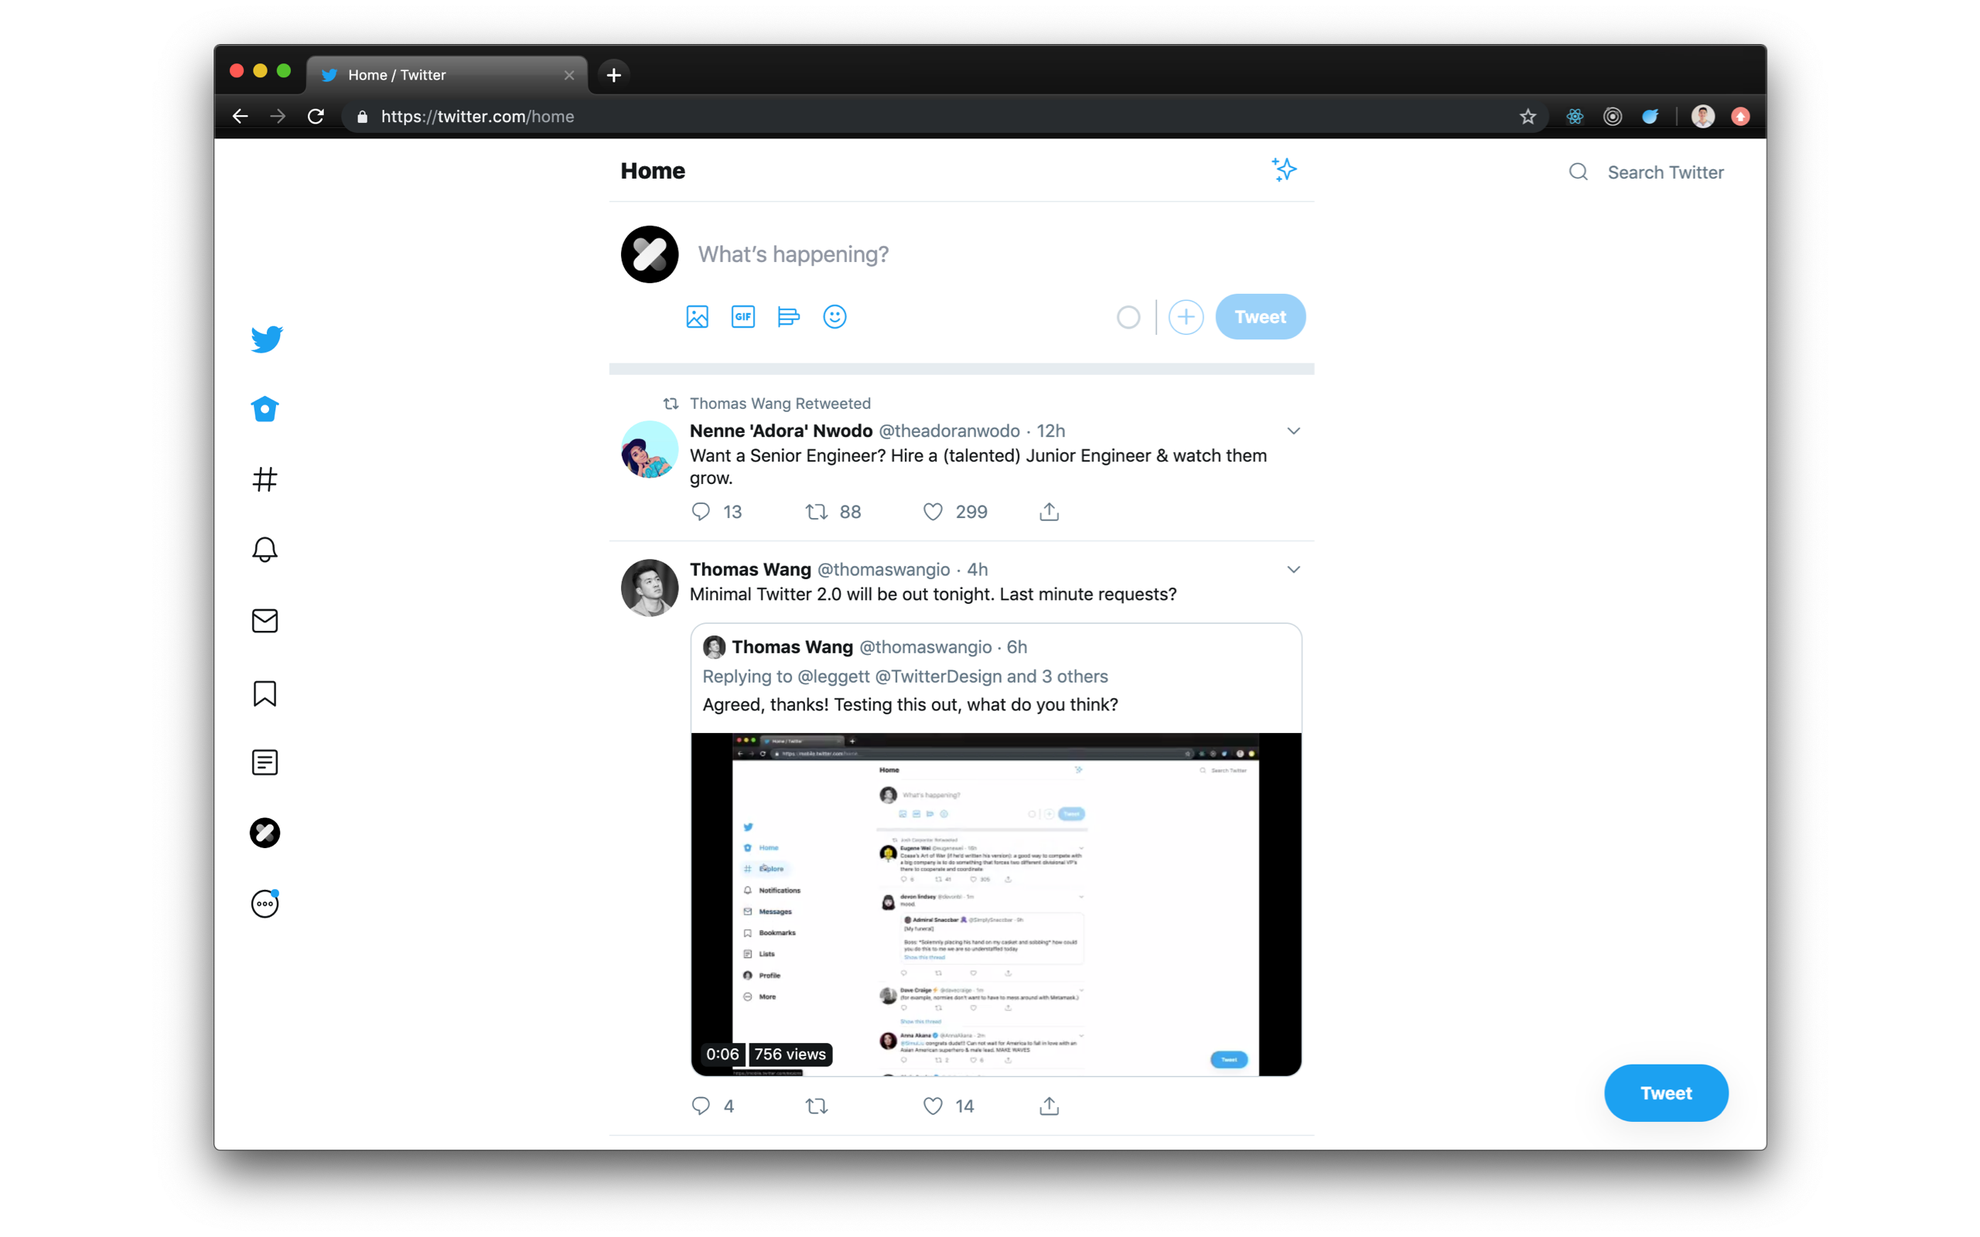
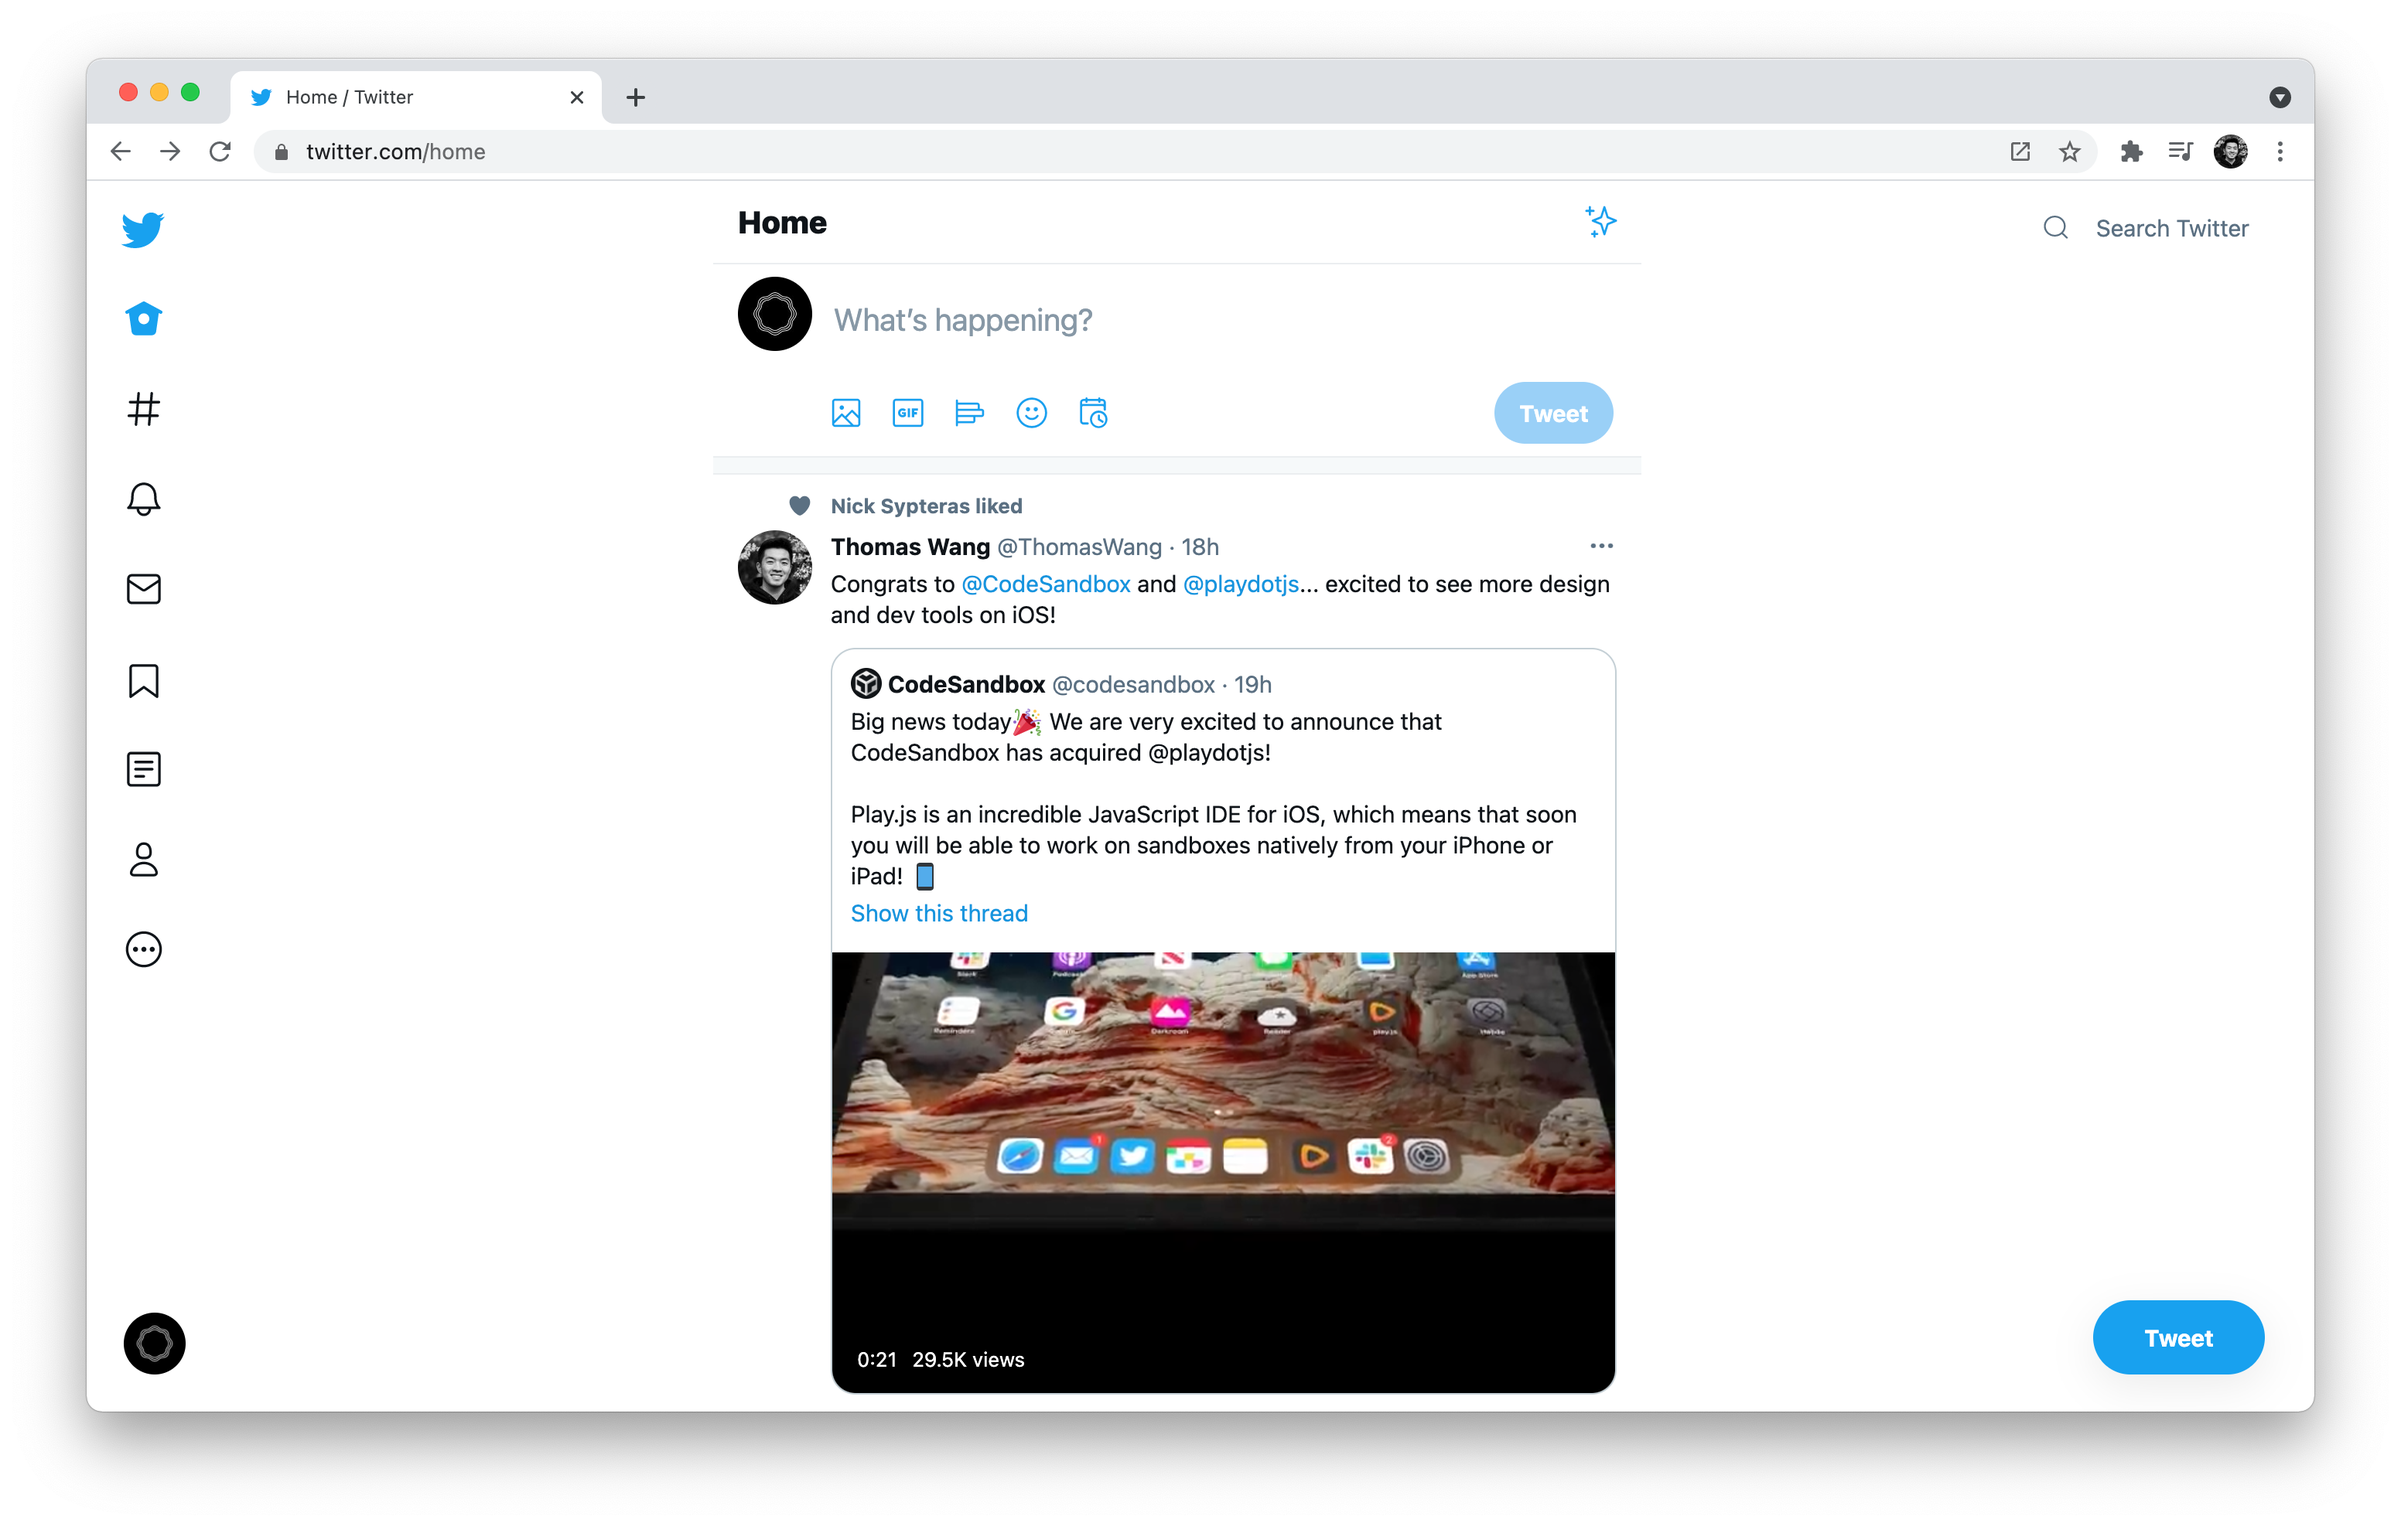
2.80

Changed region(s): [[0.0, 0.0312, 1.0, 0.9688], [0.2812, 0.1875, 0.4688, 0.25]]

diff --git a/chrome/minimal-twitter.css b/chrome/minimal-twitter.css
@@ -1,21 +1,3 @@
-header[role="banner"] {
-  align-items: start !important;
-  max-width: 100px !important;
-}
-
-header[role="banner"] > div > div > div {
-  justify-content: center;
-  padding-top: 0;
-}
-
-header[role="banner"] > div > div > div > div {
-  margin-top: 0 !important;
-}
-
-header[role="banner"] > div > div > div > div:nth-child(1) {
-  padding-top: 0 !important;
-}
-
 main[role="main"] {
   align-items: center !important;
 }
@@ -54,16 +36,22 @@ a[data-testid="SideNav_NewTweet_Button"] {
   }
 }
 
+header[role="banner"] {
+  align-items: start !important;
+  max-width: 100px !important;
+}
+
 header[role="banner"] > div > div > div {
-  justify-content: center;
+  justify-content: space-between;
+  padding-top: 6px;
 }
 
 header[role="banner"] > div > div > div > div {
-  margin-top: auto;
+  margin-top: 0 !important;
 }
 
 header[role="banner"] > div > div > div > div:nth-child(1) {
-  padding-top: 59px;
+  padding-top: 0 !important;
 }
 
 header[role="banner"]
@@ -154,11 +142,18 @@ form[aria-label="Search Twitter"][role="search"] > div:nth-child(1) > div {
   background-color: transparent !important;
 }
 
+div[data-testid="sidebarColumn"] input[placeholder="Search Twitter"] {
+  width: 150px !important;
+}
+
+div[data-testid="sidebarColumn"] input[placeholder="Search Twitter"]:focus {
+  width: auto !important;
+}
+
 input[placeholder="Search Twitter"] {
   padding-left: 34px !important;
   margin-left: -24px !important;
   z-index: 1 !important;
-  width: 150px !important;
   transition: 0.5s cubic-bezier(0.2, 0.8, 0.2, 1);
 }
 
@@ -169,7 +164,6 @@ input[placeholder="Search Twitter"]::placeholder {
 input[placeholder="Search Twitter"]:focus {
   padding-left: 10px !important;
   margin-left: 0 !important;
-  width: 300px !important;
 }
 
 @media all and (max-width: 1265px) {

diff --git a/firefox/minimal-twitter.css b/firefox/minimal-twitter.css
@@ -1,21 +1,3 @@
-header[role="banner"] {
-  align-items: start !important;
-  max-width: 100px !important;
-}
-
-header[role="banner"] > div > div > div {
-  justify-content: center;
-  padding-top: 0;
-}
-
-header[role="banner"] > div > div > div > div {
-  margin-top: 0 !important;
-}
-
-header[role="banner"] > div > div > div > div:nth-child(1) {
-  padding-top: 0 !important;
-}
-
 main[role="main"] {
   align-items: center !important;
 }
@@ -54,16 +36,22 @@ a[data-testid="SideNav_NewTweet_Button"] {
   }
 }
 
+header[role="banner"] {
+  align-items: start !important;
+  max-width: 100px !important;
+}
+
 header[role="banner"] > div > div > div {
-  justify-content: center;
+  justify-content: space-between;
+  padding-top: 6px;
 }
 
 header[role="banner"] > div > div > div > div {
-  margin-top: auto;
+  margin-top: 0 !important;
 }
 
 header[role="banner"] > div > div > div > div:nth-child(1) {
-  padding-top: 59px;
+  padding-top: 0 !important;
 }
 
 header[role="banner"]
@@ -160,11 +148,18 @@ form[aria-label="Search Twitter"][role="search"] > div:nth-child(1) > div {
   background-color: transparent !important;
 }
 
+div[data-testid="sidebarColumn"] input[placeholder="Search Twitter"] {
+  width: 150px !important;
+}
+
+div[data-testid="sidebarColumn"] input[placeholder="Search Twitter"]:focus {
+  width: auto !important;
+}
+
 input[placeholder="Search Twitter"] {
   padding-left: 34px !important;
   margin-left: -24px !important;
   z-index: 1 !important;
-  width: 150px !important;
   transition: 0.5s cubic-bezier(0.2, 0.8, 0.2, 1);
 }
 
@@ -175,7 +170,6 @@ input[placeholder="Search Twitter"]::placeholder {
 input[placeholder="Search Twitter"]:focus {
   padding-left: 10px !important;
   margin-left: 0 !important;
-  width: 300px !important;
 }
 
 @media all and (max-width: 1265px) {

diff --git a/twitter.safariextension/minimal-twitter.css b/twitter.safariextension/minimal-twitter.css
@@ -1,21 +1,3 @@
-header[role="banner"] {
-  align-items: start !important;
-  max-width: 100px !important;
-}
-
-header[role="banner"] > div > div > div {
-  justify-content: center;
-  padding-top: 0;
-}
-
-header[role="banner"] > div > div > div > div {
-  margin-top: 0 !important;
-}
-
-header[role="banner"] > div > div > div > div:nth-child(1) {
-  padding-top: 0 !important;
-}
-
 main[role="main"] {
   align-items: center !important;
 }
@@ -54,16 +36,22 @@ a[data-testid="SideNav_NewTweet_Button"] {
   }
 }
 
+header[role="banner"] {
+  align-items: start !important;
+  max-width: 100px !important;
+}
+
 header[role="banner"] > div > div > div {
-  justify-content: center;
+  justify-content: space-between;
+  padding-top: 6px;
 }
 
 header[role="banner"] > div > div > div > div {
-  margin-top: auto;
+  margin-top: 0 !important;
 }
 
 header[role="banner"] > div > div > div > div:nth-child(1) {
-  padding-top: 59px;
+  padding-top: 0 !important;
 }
 
 header[role="banner"]
@@ -158,7 +146,6 @@ input[placeholder="Search Twitter"] {
   padding-left: 34px !important;
   margin-left: -24px !important;
   z-index: 1 !important;
-  width: 150px !important;
   transition: 0.5s cubic-bezier(0.2, 0.8, 0.2, 1);
 }
 
@@ -169,7 +156,6 @@ input[placeholder="Search Twitter"]::placeholder {
 input[placeholder="Search Twitter"]:focus {
   padding-left: 10px !important;
   margin-left: 0 !important;
-  width: 300px !important;
 }
 
 @media all and (max-width: 1265px) {

diff --git a/chrome/applyOptions.js b/chrome/applyOptions.js
@@ -70,8 +70,8 @@ chrome.storage.sync.get(
     if (items.topNavigation === true) {
       addStyles(`
       header[role="banner"] > div > div > div {
-        justify-content: space-between !important;
-        padding-top: 6px;
+        justify-content: center !important;
+        padding-top: 0;
       }
       `);
     }
@@ -95,7 +95,7 @@ chrome.storage.sync.get(
     if (items.showMessageDrawer === true) {
       addStyles(`
       div[data-testid="DMDrawer"] {
-        visibility: visible !important;
+        visibility: visible;
       }
       `);
     }

diff --git a/firefox/applyOptions.js b/firefox/applyOptions.js
@@ -70,8 +70,8 @@ chrome.storage.sync.get(
     if (items.topNavigation === true) {
       addStyles(`
       header[role="banner"] > div > div > div {
-        justify-content: space-between !important;
-        padding-top: 6px;
+        justify-content: center !important;
+        padding-top: 0;
       }
       `);
     }
@@ -95,7 +95,7 @@ chrome.storage.sync.get(
     if (items.showMessageDrawer === true) {
       addStyles(`
       div[data-testid="DMDrawer"] {
-        visibility: visible !important;
+        visibility: visible;
       }
       `);
     }

diff --git a/chrome/options.html b/chrome/options.html
@@ -542,7 +542,7 @@
         <p>
           <label>
             <input type="checkbox" id="top-navigation" />
-            <span>Top align navigation</span>
+            <span>Center align navigation</span>
           </label>
         </p>
         <p>

diff --git a/firefox/options.html b/firefox/options.html
@@ -542,7 +542,7 @@
         <p>
           <label>
             <input type="checkbox" id="top-navigation" />
-            <span>Top align navigation</span>
+            <span>Center align navigation</span>
           </label>
         </p>
         <p>
